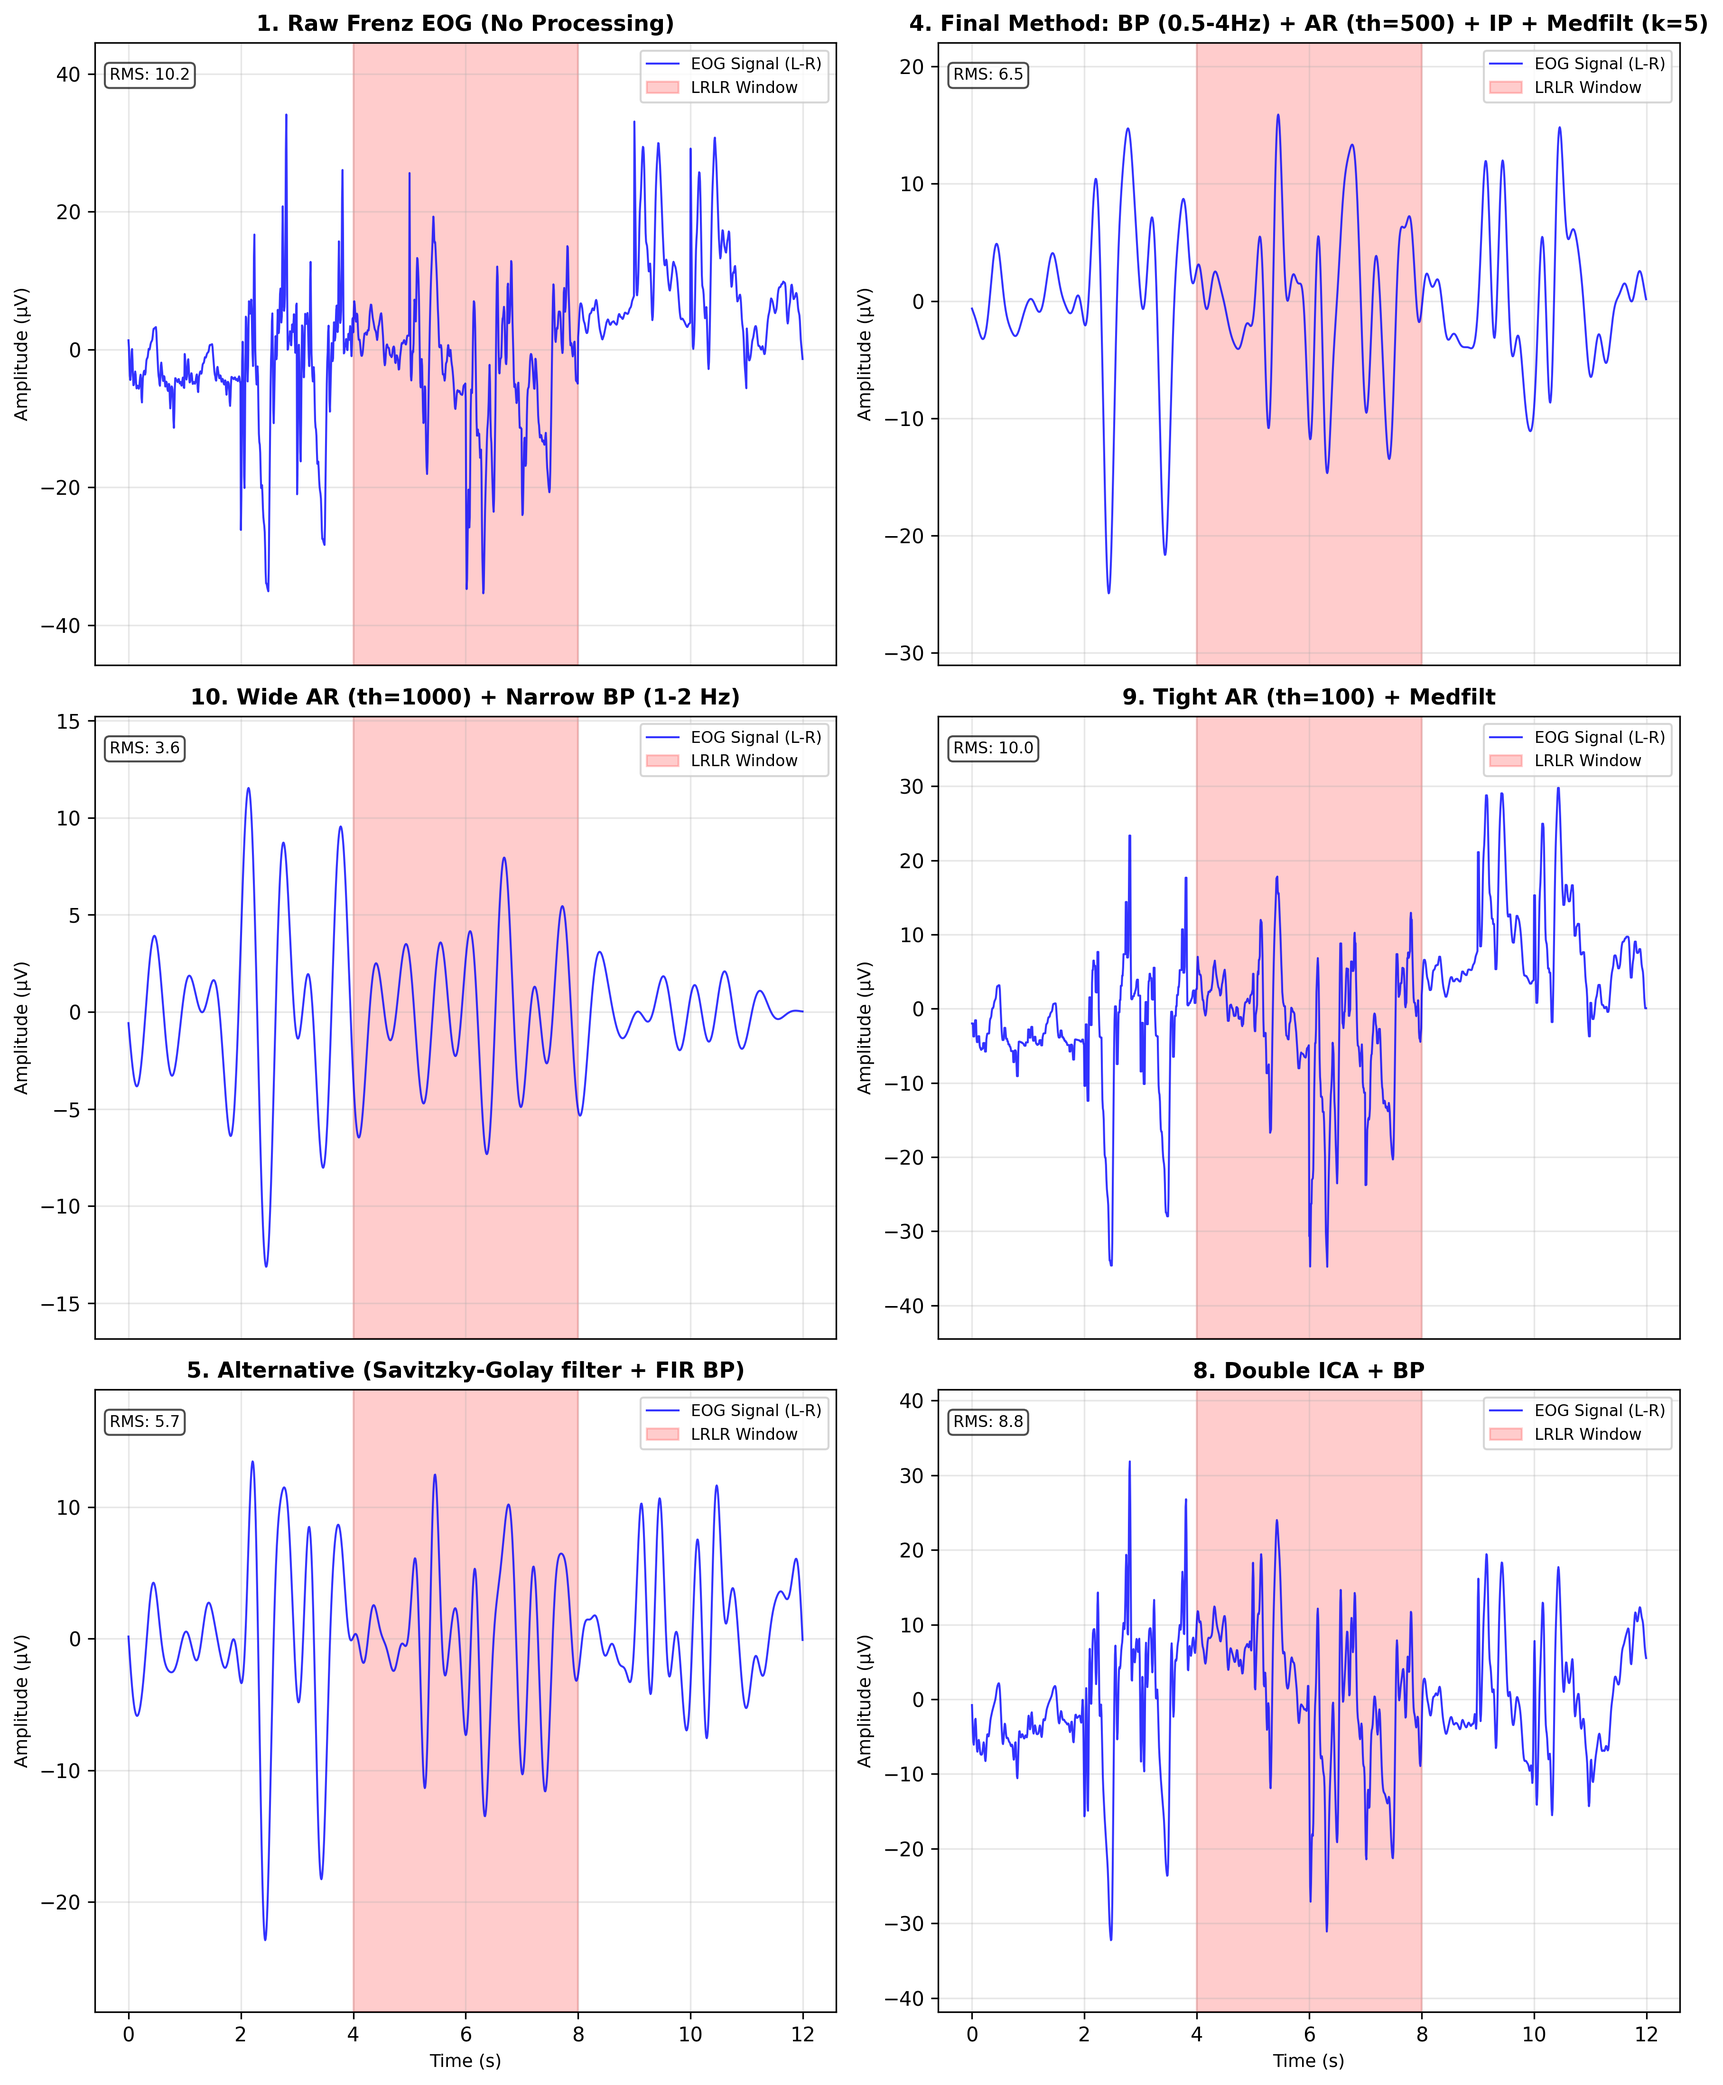
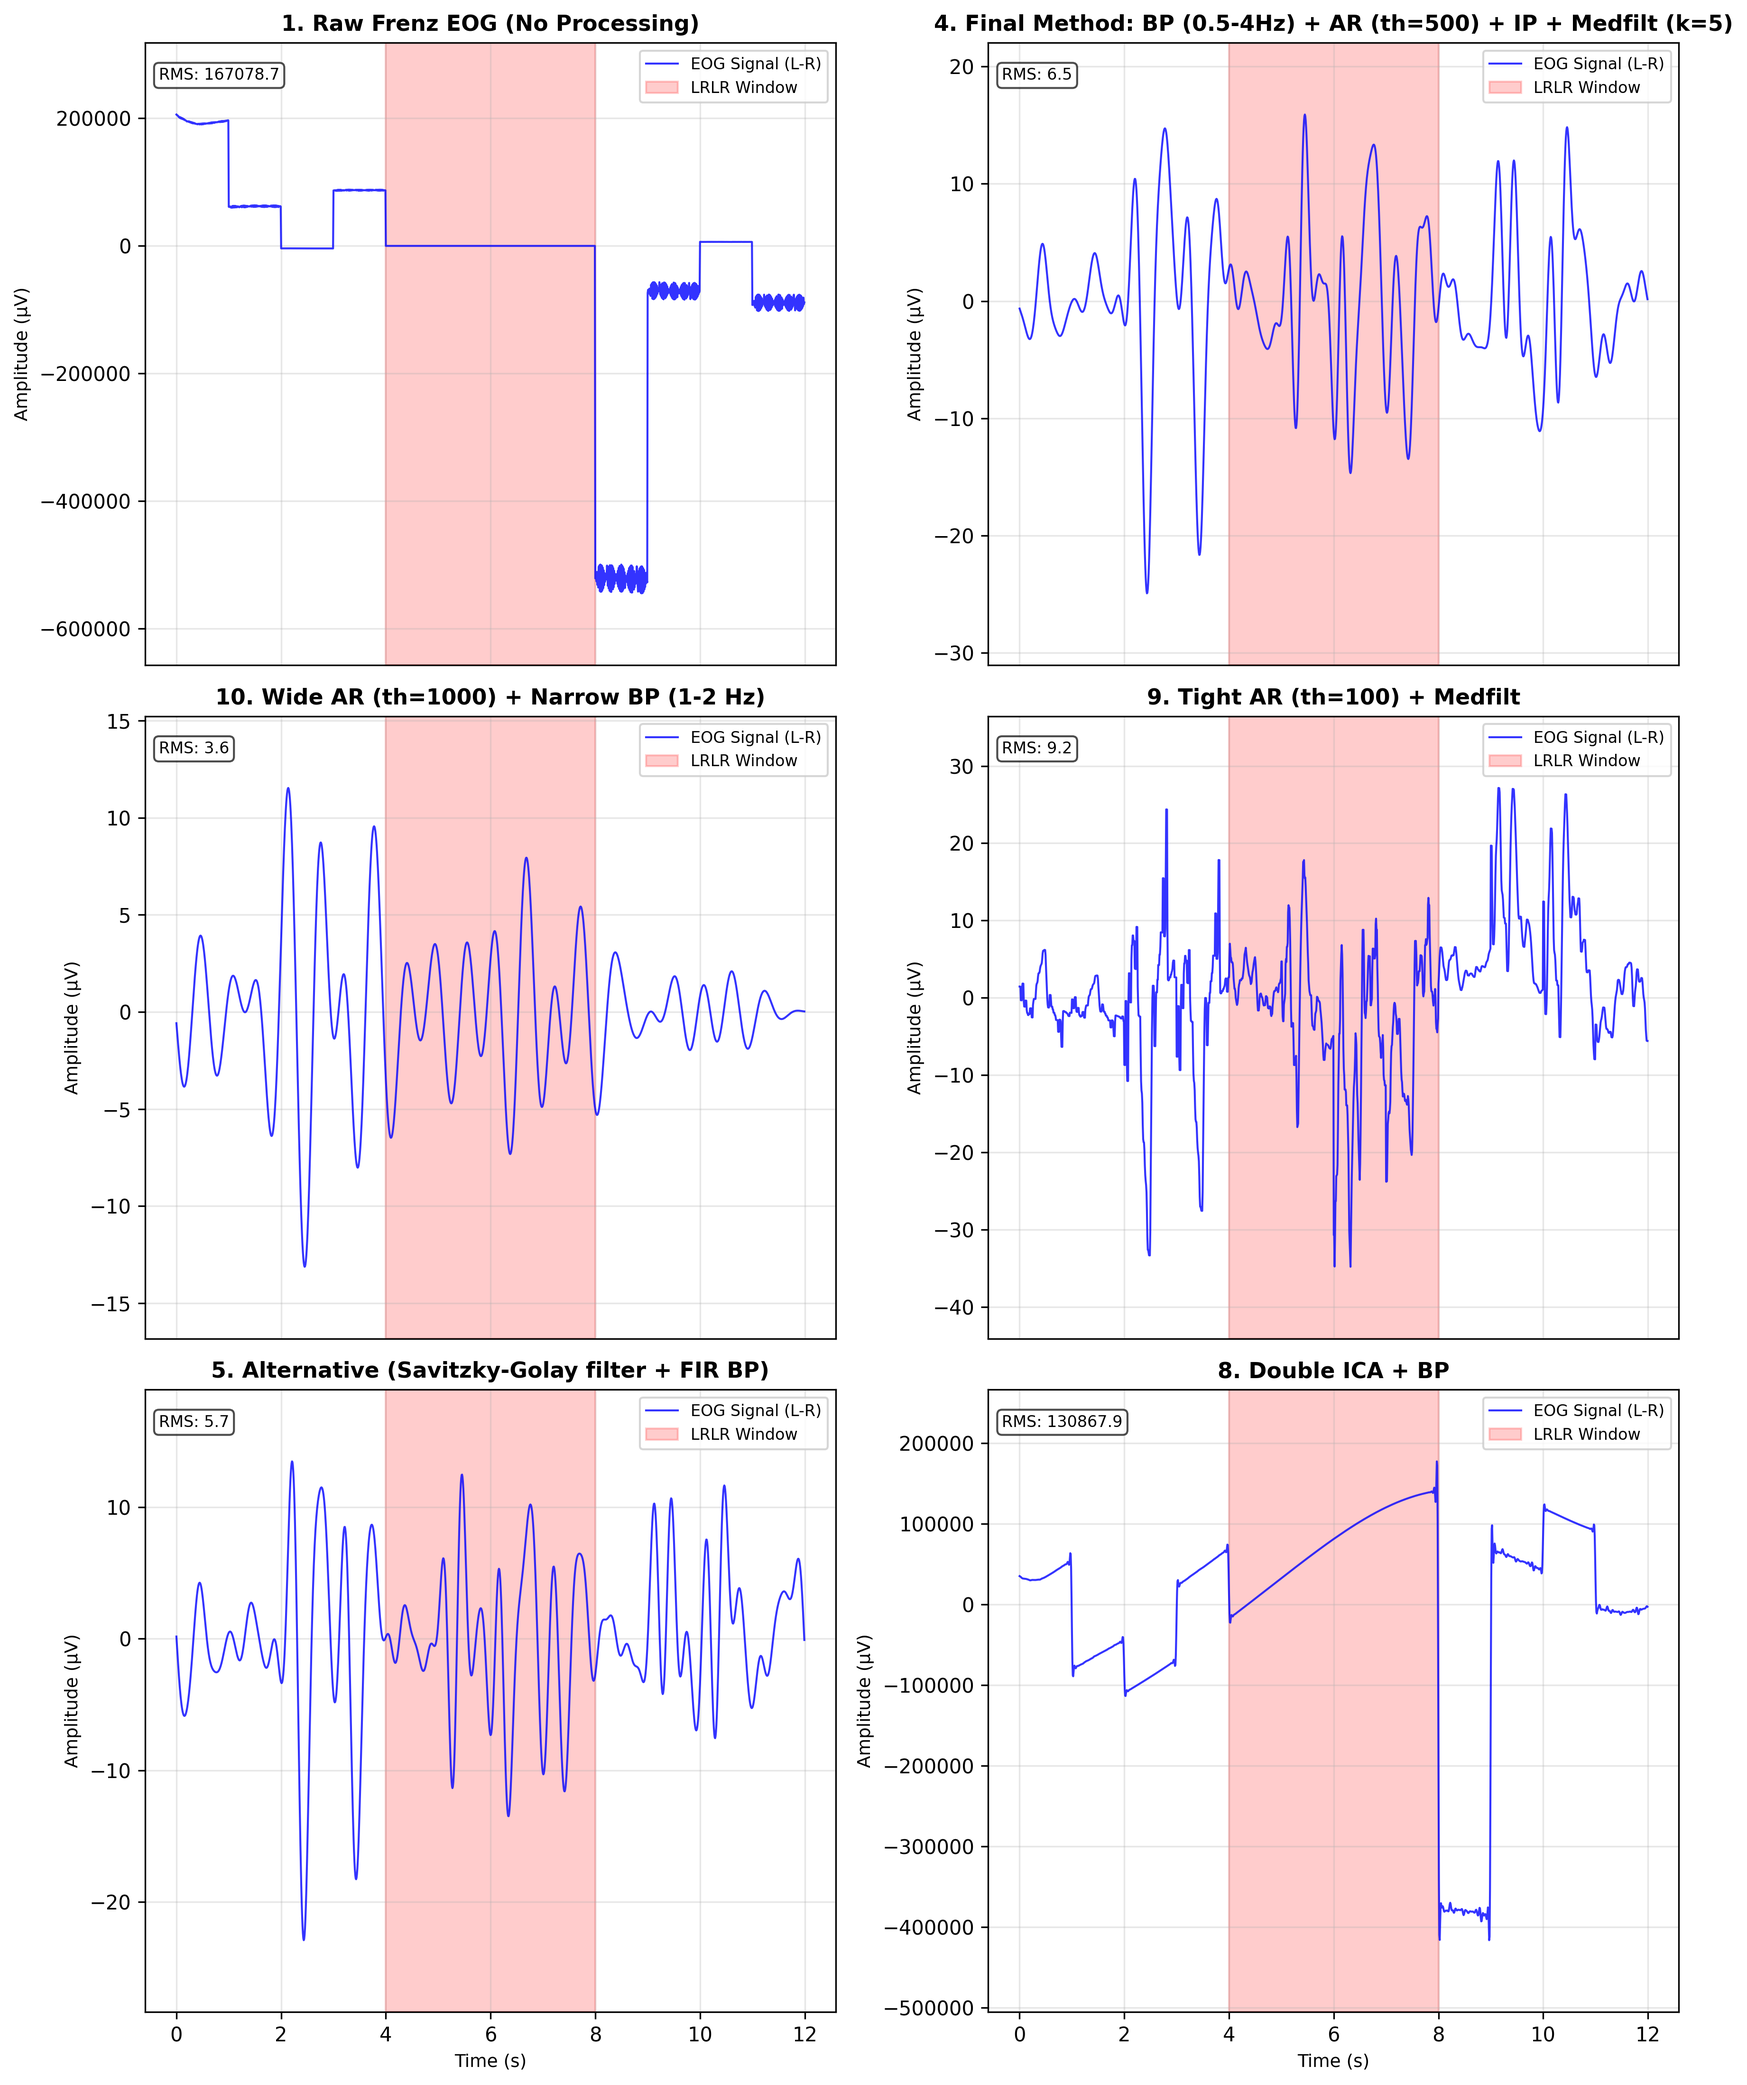
new image

diff --git a/benji-for-report/simple_vis.py b/benji-for-report/simple_vis.py
@@ -612,15 +612,15 @@ def testmydat():
         # Extract data for visualization including horizontal difference calculation
         eog_data_viz = loaded_data[viz_start:viz_end, [6, 8]]  # Left and right EOG channels for viz
         # Calculate horizontal difference (L-R) and add as third column
-        processed_eog_data = CURRENT_process_eog_for_plotting(eog_data_viz, srate=125,
-                                                              lowcut=0.5, highcut=4.0, 
-                                                              artifact_threshold=500, mft_kernel_size=5)
-        horizontal_diff = processed_eog_data[:, 0] - processed_eog_data[:, 1]
-        eog_data_viz_with_diff = np.column_stack([processed_eog_data, horizontal_diff])
+        # processed_eog_data = CURRENT_process_eog_for_plotting(eog_data_viz, srate=125,
+        #                                                       lowcut=0.5, highcut=4.0, 
+        #                                                       artifact_threshold=500, mft_kernel_size=5)
+        # horizontal_diff = processed_eog_data[:, 0] - processed_eog_data[:, 1]
+        # eog_data_viz_with_diff = np.column_stack([processed_eog_data, horizontal_diff])
         target_events_viz = loaded_data[viz_start:viz_end, 1]  # Target events for viz
         
         print(f"Full processing EOG data shape: {eog_data_full.shape}")
-        print(f"Visualization EOG data shape (with diff): {eog_data_viz_with_diff.shape}")
+        # print(f"Visualization EOG data shape (with diff): {eog_data_viz_with_diff.shape}")
         print(f"Full processing target events shape: {target_events_full.shape}")
         print(f"Visualization target events shape: {target_events_viz.shape}")
         print(f"Column names: {session_metadata['processed_column_names'][6:10]}")
@@ -630,10 +630,10 @@ def testmydat():
         save_filename = f"processing_compare_{subject_name.lower()}.png"
 
         # Plot EOG with LRLR detection using the data with horizontal difference
-        plot_eog_with_lrlr_detection(eog_data_viz_with_diff, session_metadata, colstart=0, colend=3,
-                                       target_event=target_events_viz, 
-                                       title=f"{subject_name} EOG Data with LRLR Detection",
-                                       srate=125)
+        # plot_eog_with_lrlr_detection(eog_data_viz_with_diff, session_metadata, colstart=0, colend=3,
+        #                                target_event=target_events_viz, 
+        #                                title=f"{subject_name} EOG Data with LRLR Detection",
+        #                                srate=125)
 
         compare_preprocessing_techniques(eog_data_viz, srate=125, 
                                        target_event=target_events_viz,
